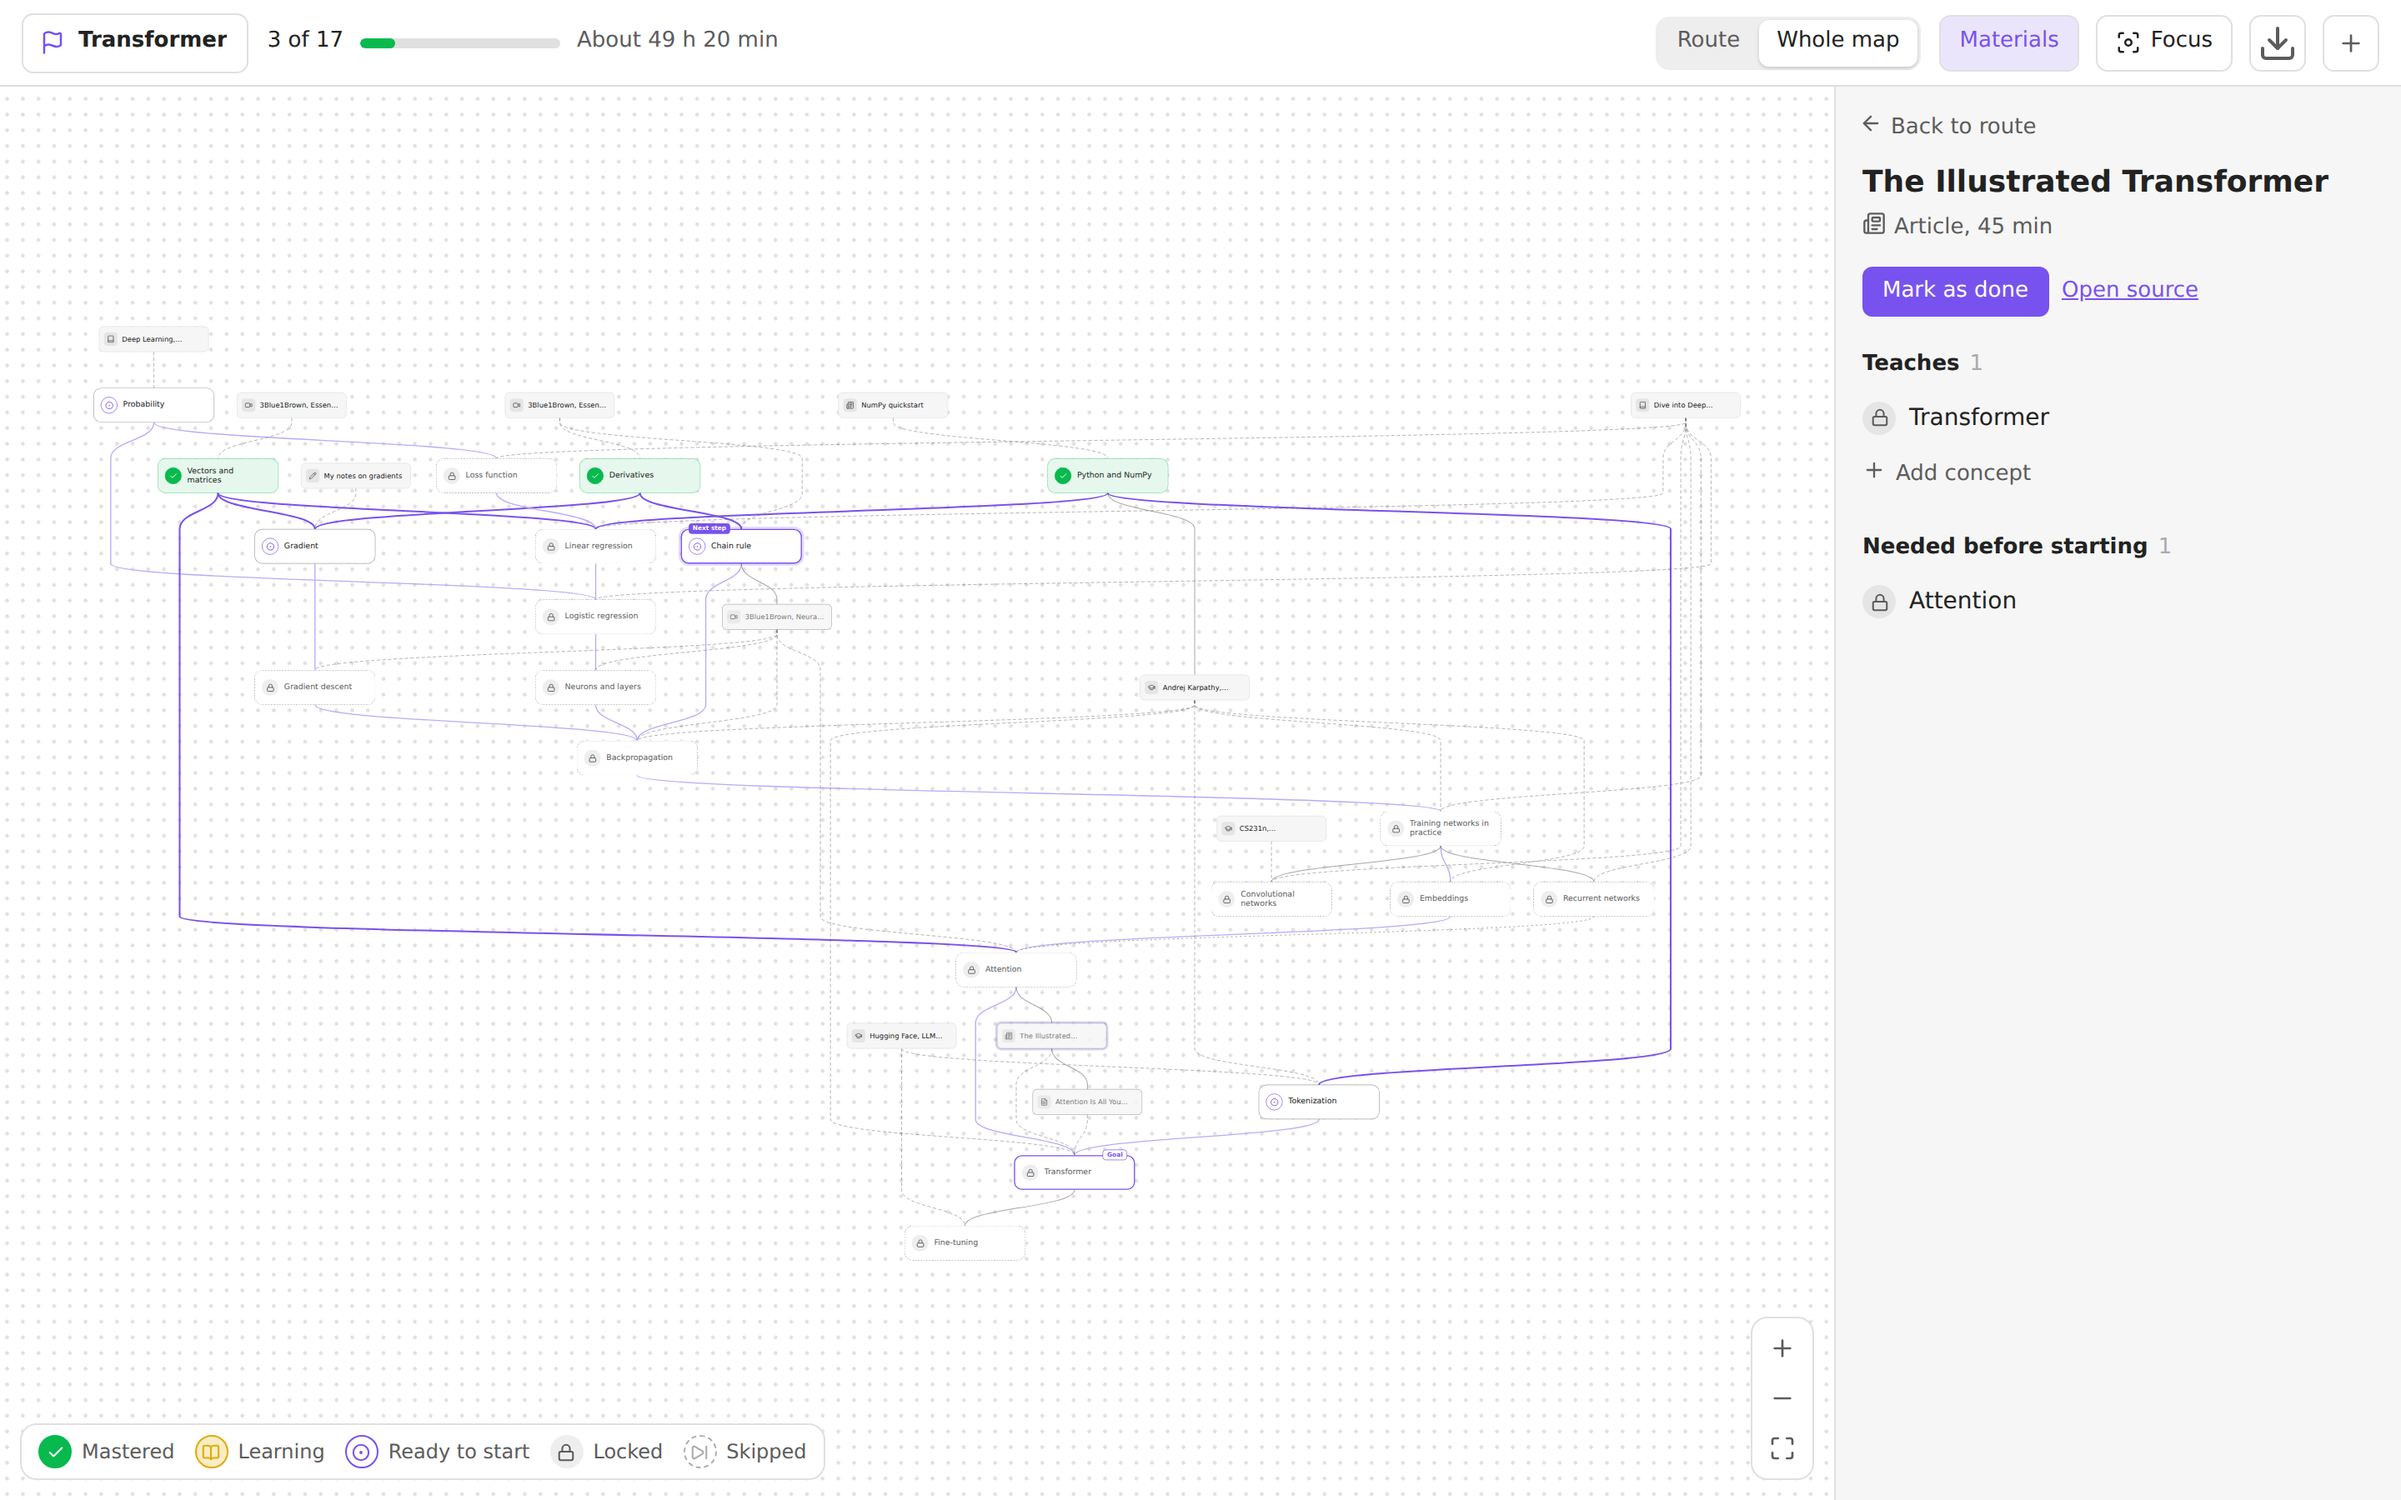
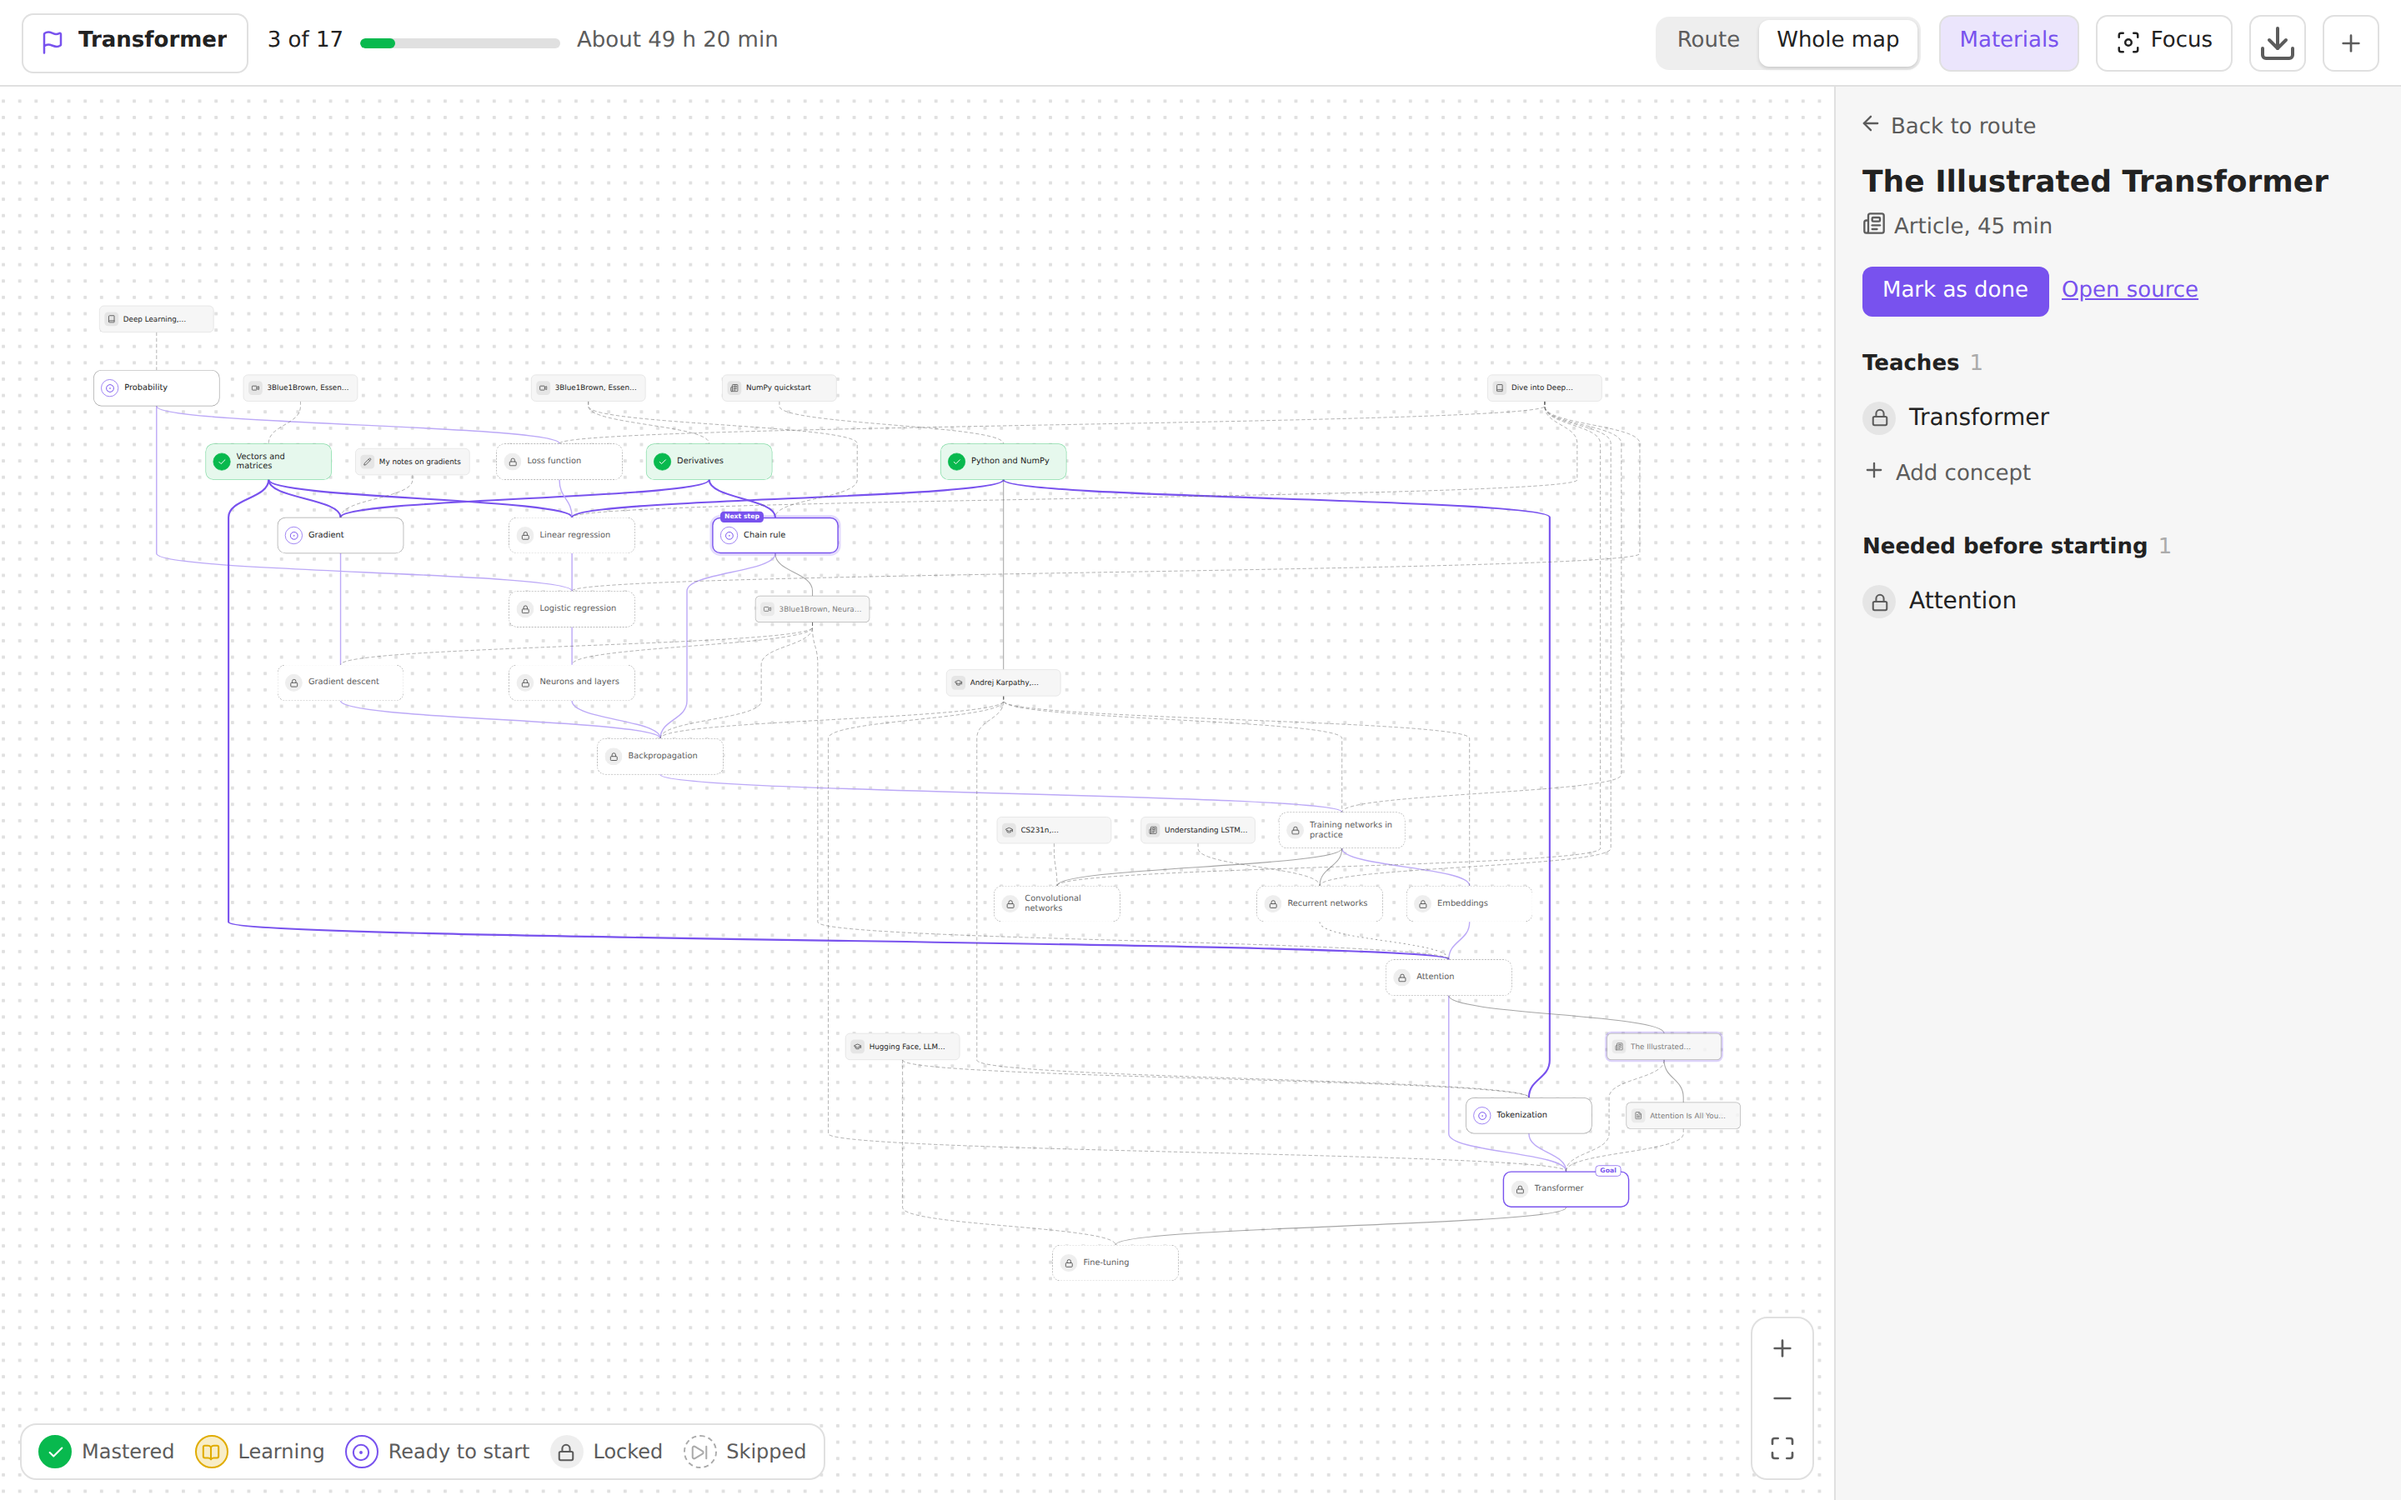
Describe 0.3 in the README and retake the screenshots
A short "What's new in 0.3" section in both languages. The whole-map screenshots now show the listed material; the others came out the same.

diff --git a/README.ru.md b/README.ru.md
@@ -6,6 +6,18 @@
 
 ![Маршрут обучения, светлая тема](docs/screenshots/route-light.png)
 
+## Что нового в 0.3
+
+- **Пропуск, уверенность и «я это знаю»** для карт, часть которых вы уже знаете.
+- **Материалы без заметки:** ссылки и вложения прямо в концепте.
+- **Область карты:** папки и теги, которые не попадают на карту.
+- **Фокус и свёртка,** чтобы видеть только то, что рядом с концептом.
+- **Проверка карты** со счётчиком в шапке.
+- **Экспорт** в Canvas и SVG.
+- **Собственный движок раскладки,** работающий как WebAssembly в фоновом потоке: большие карты раскладываются за доли секунды и с меньшим числом пересечений.
+
+Нужен Obsidian 1.13.0. Полный список — в [журнале изменений](CHANGELOG.md) (на английском).
+
 ## Возможности
 
 - **Маршрут к цели.** Выберите концепт, который хотите освоить. Tropa покажет только шаги, ведущие к нему, по порядку, и выделит следующий.

diff --git a/README.md b/README.md
@@ -6,6 +6,18 @@ Tropa turns ordinary notes into a graph of concepts and learning materials, and 
 
 ![Learning route, light theme](docs/screenshots/route-light.png)
 
+## What's new in 0.3
+
+- **Skip, confidence and "I know this"** for maps you already know part of.
+- **Materials without a note:** links and attachments listed in a concept.
+- **Map scope:** leave folders and tags out of the map.
+- **Focus and fold** to see only what is near a concept.
+- **Map audit** with a counter in the bar.
+- **Export** to Canvas and SVG.
+- **A layout engine of its own,** run as WebAssembly in a worker: large maps lay out in a fraction of a second and draw with fewer crossings.
+
+Requires Obsidian 1.13.0. The full list is in the [changelog](CHANGELOG.md).
+
 ## Features
 
 - **Route to a goal.** Pick a concept you want to learn. Tropa shows only the steps that lead to it, in order, with the next one highlighted.
